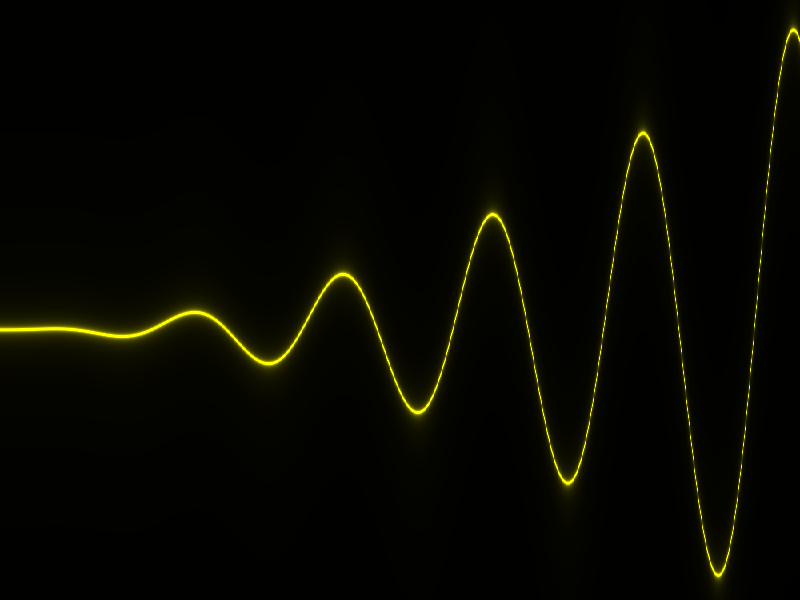
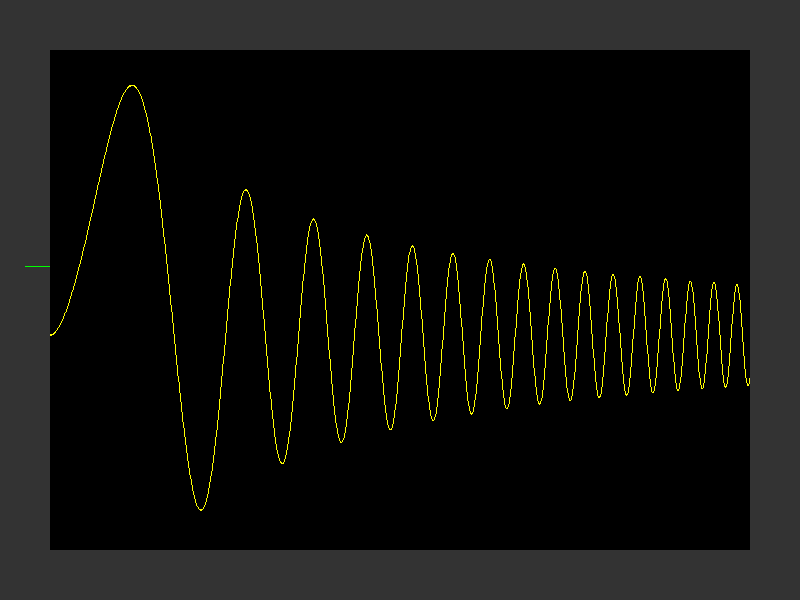
Joined dots Tried to make graduations

diff --git a/graph_test.c b/graph_test.c
@@ -5,9 +5,10 @@
 #include <SFML/Window.h>
 
 void testFn(float * buffer, size_t size) {
-    for (size_t i = 0; i < size; i++) {
-        buffer[i] = (float)sin(((float)i) / 30) * i * i;
-        //buffer[i] = 0.1;
+    for (int i = 0; i < size; i++) {
+        float x = (float)i / 1000.f;
+        x *= 10;
+        buffer[i] = sinf(x*x) / (x + 1);
     }
 }
 
@@ -19,7 +20,6 @@ float upperBound(const float * samples, size_t size) {
         if (samples[i] > max)
             max = samples[i];
     }
-    max *= (max > 0) ? 1.1f : 0.9f;
     return max;
 }
 
@@ -31,8 +31,17 @@ float lowerBound(const float * samples, size_t size) {
         if (samples[i] < min)
             min = samples[i];
     }
-    min *= (min < 0) ? 1.1f : 0.9f;
     return min;
+}
+
+float scale(float max) {
+    float base10 = powf(floorf(log10f(max)) - 1, 10);
+    base10 /= 10;
+    return base10;
+}
+
+float map(float value, float inMin, float inMax, float outMin, float outMax) {
+  return outMin + (outMax - outMin) * (value - inMin) / (inMax - inMin);
 }
 
 int main() {
@@ -42,6 +51,8 @@ int main() {
     testFn(samples, SIZE);
     float upper = upperBound(samples, SIZE);
     float lower = lowerBound(samples, SIZE);
+    upper += (upper - lower) / 10;
+    lower += (lower - upper) / 10;
 
     printf("Upper: %f, Lower: %f\n", upper, lower);
 
@@ -62,15 +73,64 @@ int main() {
     sfShader_setFloatUniformArray(graph_shader, "data", samples, SIZE);
 
     sfVector2f canvas_size = { 800, 600 };
+    //sfVector2f canvas_pos = { 100, 100};
 
     sfRenderTexture* render_texture = sfRenderTexture_create(800, 600, sfFalse);
+
     sfRectangleShape* canvas = sfRectangleShape_create();
     sfRectangleShape_setSize(canvas, canvas_size);
-    sfRectangleShape_setFillColor(canvas, sfWhite);
+    sfRectangleShape_setFillColor(canvas, sfBlack);
+    //sfRectangleShape_setPosition(canvas, canvas_pos);
+
+    sfVector2f grad_size = { 25, 1 };
+    sfRectangleShape* graduation = sfRectangleShape_create();
+    sfRectangleShape_setSize(graduation, grad_size);
+    sfRectangleShape_setFillColor(graduation, sfGreen);
 
     sfRenderStates states = { .blendMode = sfBlendAlpha, .transform = sfTransform_Identity, .texture = NULL, .shader = graph_shader };
     sfRenderTexture_clear(render_texture, sfBlack);
+    sfRenderTexture_drawRectangleShape(render_texture, canvas, NULL);
     sfRenderTexture_drawRectangleShape(render_texture, canvas, &states);
+    //draw grads
+    // TODO: try to do this in the shader
+    // bad bad bad
+    float g = 0;
+    float grad_space = scale(upper - lower);
+    printf("Grad: %f\n", grad_space);
+    sfVector2f grad_pos = { 25, 0 };
+    if (upper < 0) {
+        while (g > upper)
+            g -= grad_space;
+        while (g > lower) {
+            grad_pos.y = map(g, lower, upper, 50, 550);
+            sfRectangleShape_setPosition(graduation, grad_pos);
+            sfRenderTexture_drawRectangleShape(render_texture, graduation, NULL);
+            g -= grad_space;
+        }
+    } else if (lower > 0) {
+        while (g < lower)
+            g += grad_space;
+        while (g < upper) {
+            grad_pos.y = map(g, lower, upper, 50, 550);
+            sfRectangleShape_setPosition(graduation, grad_pos);
+            sfRenderTexture_drawRectangleShape(render_texture, graduation, NULL);
+            g += grad_space;
+        }
+    } else {
+        while (g < upper) {
+            grad_pos.y = map(g, lower, upper, 50, 550);
+            sfRectangleShape_setPosition(graduation, grad_pos);
+            sfRenderTexture_drawRectangleShape(render_texture, graduation, NULL);
+            g += grad_space;
+        }
+        g = 0;
+        while (g > lower) {
+            grad_pos.y = map(g, lower, upper, 50, 550);
+            sfRectangleShape_setPosition(graduation, grad_pos);
+            sfRenderTexture_drawRectangleShape(render_texture, graduation, NULL);
+            g -= grad_space;
+        }
+    }
     sfRenderTexture_display(render_texture);
 
     sfImage* rendered = sfTexture_copyToImage(sfRenderTexture_getTexture(render_texture));
